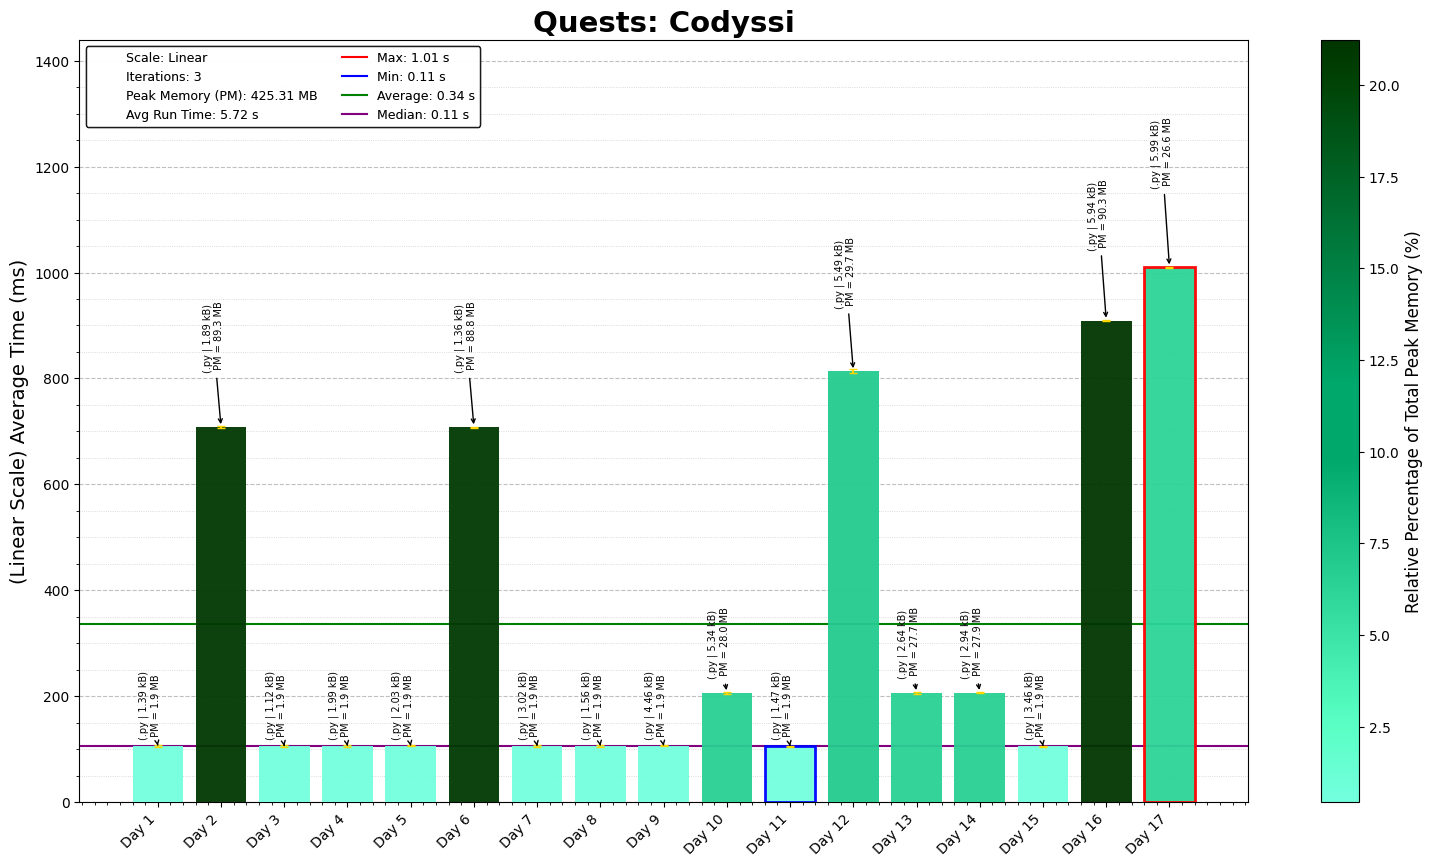
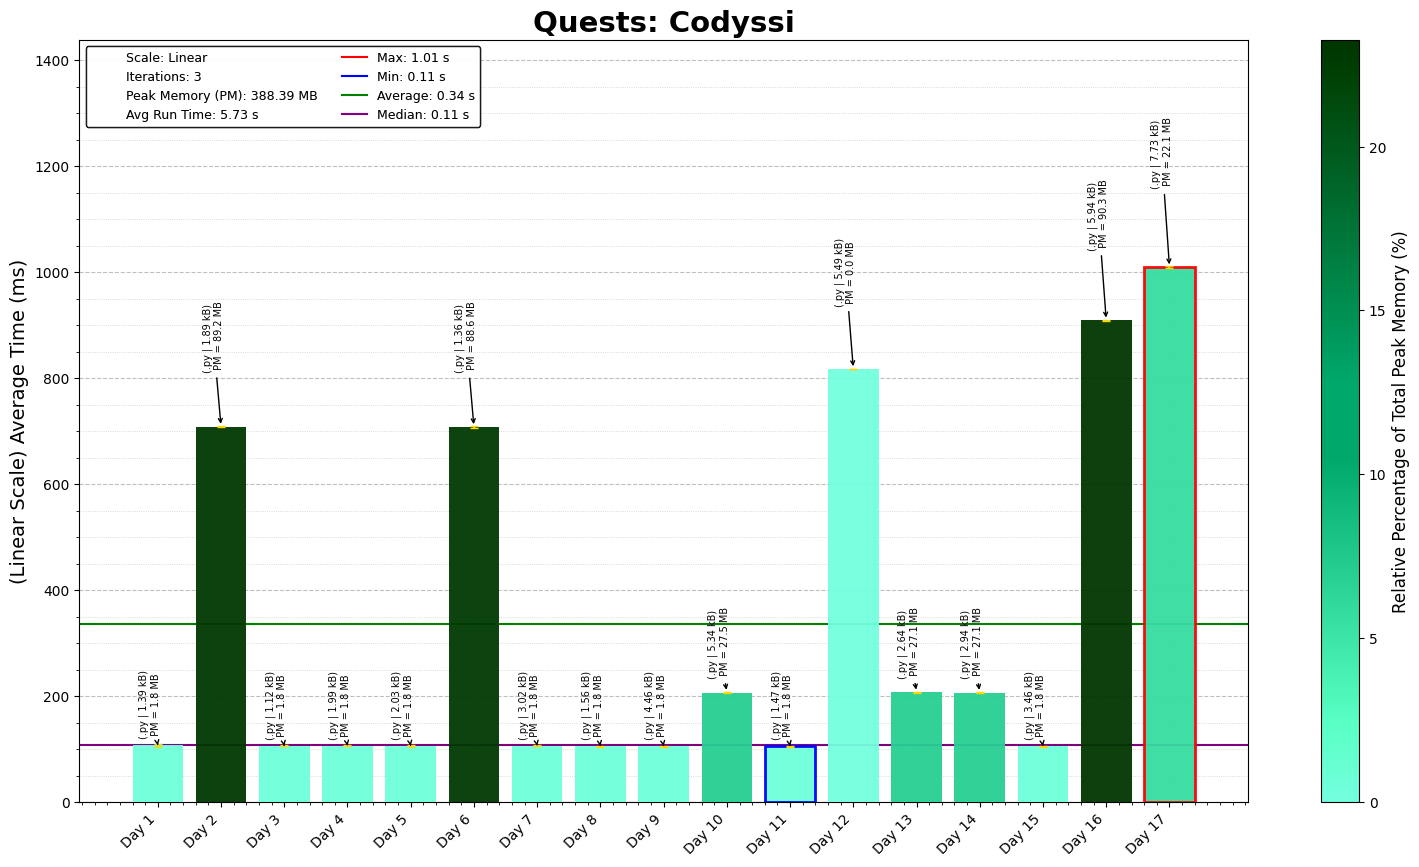
Codyssi Day 17 P3

diff --git a/Codyssi/2025/17/CodyssiDay17.py b/Codyssi/2025/17/CodyssiDay17.py
@@ -7,8 +7,9 @@ Brief: [Spiralling Stairs]
 
 #!/usr/bin/env python3
 
-import os, re, copy, time, functools
+import os, re, copy, time
 start_time = time.time()
+from functools import cache
 
 # Load the input data from the specified file path
 D17_file = "Day17_input.txt"
@@ -29,7 +30,7 @@ class Staircase:
         for branch in self.staircase_data.values():
             basic_structure = self.__build_staircase(basic_structure, branch)
 
-        self.basic_structure = copy.deepcopy(basic_structure)
+        self.basic_structure = basic_structure.copy()
         self.expanded_structure = self.__identify_shortcuts(basic_structure.copy())
 
     def __parse_step(self, raw_info):
@@ -75,7 +76,7 @@ class Staircase:
                 if next_move[1] in valid_moves:
                     complete_moves.setdefault(base_step, set()).add(next_move)
 
-        complete_moves =  copy.deepcopy(structure)
+        complete_moves =  structure.copy()
         valid_moves = self.valid_moves
 
         for base_step in structure:
@@ -86,6 +87,7 @@ class Staircase:
 
     def __dfs_algorithm(self, current, end_step, structure, history = {}, multi_level = True):
         if current == end_step: # If current is final step, count 1
+            history[current] = 1
             return 1
         if current in history: # If current is in history return to that point
             return history[current]
@@ -102,9 +104,9 @@ class Staircase:
 
         history[current] = total
         if multi_level:
-            self.history_multi = history.copy()
+            self.history_multi = history
         else:
-            self.history_basic = history.copy()
+            self.history_basic = history
         return total
 
     def __visualize_all_paths(self, current, end_step, structure, valid_paths = [], multi_level = True, visualize = True):
@@ -142,41 +144,37 @@ class Staircase:
 
         count = self.__dfs_algorithm(start_point, end_point, stair_structure, {}, multi_level)
         return count
-    def extract_numbers(self, s):
-        # Use regex to extract the numbers after 'S' and after '_'
-        match = re.match(r'S(\d+)_(\d+)', s)
-        return (int(match.group(1)), int(match.group(2)))
 
-    def __build_desired_path(self, start, end, target):
-        # print(f"{start} -> {end}: Rank {desired_rank}")
-        stair_structure = self.expanded_structure.copy()
-        # reachable_states = {}
-        # for step, connections in stair_structure.items():
-        #     corrected_states = set(step for step, _ in connections)
-        #     reachable_states[step] = corrected_states
-        dp = self.history_multi.copy()
-        dp[end] = 1
+    def __build_desired_path(self, start, end, desired_rank):
+
+        @cache
+        def extract_numbers(step):
+            match = re.compile(r'S(\d+)_(\d+)').match(step[0])
+            return int(match.group(1)), int(match.group(2))
+
+        stair_structure = self.expanded_structure
+        history = self.history_multi
 
         path = [start]
         while path[-1] != end:
             state = path[-1]
-            reachable_states = sorted(step for step, _ in stair_structure[state])
-            reachable_states_sorted = sorted(reachable_states,  key=self.extract_numbers)
-            print(state, reachable_states_sorted)
+            reachable_states = set(stair_structure[state])
+            reachable_states_sorted = sorted(reachable_states,  key=extract_numbers)
             path += [reachable_states_sorted]
-            for state_next in reachable_states_sorted:
+            for state_next, _ in reachable_states_sorted:
                 path[-1] = state_next
-                if target - dp[state_next] <= 0:
+                if desired_rank - history[state_next] <= 0:
                     break
-                target -= dp[state_next]
-        return path
+                desired_rank -= history[state_next]
+        return '-'.join(path)
 
-    def find_safest_path(self, target_step, total_paths, target_rank = 1E+29):
+    def find_safest_path(self, target_step, total_paths):
+        target_rank = 100000000000000000000000000000
         path_rank = min(target_rank, total_paths)
         start_point, end_point = self.identify_start_end(target_step)
         path_built = self.__build_desired_path(start_point, end_point, path_rank)
 
-        return '-'.join(path_built)
+        return path_built
 
 stairs = Staircase(steps, possible_moves)
 
@@ -189,91 +187,5 @@ print("Part 2:", multiple_stairs)
 ranked_path = stairs.find_safest_path("S1", multiple_stairs)
 print("Part 3:", ranked_path)
 
-from collections import defaultdict
-
-blocks = [block.splitlines() for block in open(D17_file_path, "r").read().split("\n\n")]
-
-# read staircases, build set of states and map of directed, single steps
-states = set()
-steps = defaultdict(list)
-start, end = (-1, -1), (-1, -1)
-for line in blocks[0]:
-    s = line.split()
-    id, level_start, level_end, sid_from, sid_to = int(s[0][1:]), int(s[2]), int(s[4]), s[7], s[9]
-    for level in range(level_start, level_end + 1):
-        states.add((id, level))
-        if level < level_end:
-            steps[(id, level)] += [(id, level + 1)]
-    if id == 1:
-        start, end = (id, level_start), (id, level_end)
-    else:
-        id_from, id_to = int(sid_from[1:]), int(sid_to[1:])
-        steps[(id_from, level_start)] += [(id, level_start)]
-        steps[(id, level_end)] += [(id_to, level_end)]
-
-# read moves
-moves = set(map(int, re.findall(r"[-+]?\d+", blocks[1][0])))
-max_move = max(moves)
-
-# build map of all states that are reachable from a state in a full move
-reachable_states = defaultdict(set)
-for state in states:
-    states_tmp = {state}
-    for k in range(1, max_move + 1):
-        states_tmp_new = set()
-        for s in states_tmp:
-            states_tmp_new.update(steps[s])
-        states_tmp = states_tmp_new
-        if k in moves:
-            reachable_states[state].update(states_tmp)
-
-# topological sort of states
-n_states = len(states)
-in_degree = defaultdict(int)
-for lst in steps.values():
-    for v in lst:
-        in_degree[v] += 1
-sorted_states = []
-stack = [s for s in states if in_degree[s] == 0]
-while stack:
-    v = stack.pop()
-    sorted_states += [v]
-    for u in steps[v]:
-        in_degree[u] -= 1
-        if in_degree[u] == 0:
-            stack += [u]
-assert len(sorted_states) == n_states
-
-dp = defaultdict(int)
-dp[start] = 1
-for i in range(0, end[1] + 1):
-    state = (1, i)
-    for reachable_state in reachable_states[state]:
-        if reachable_state[0] == 1:
-            dp[reachable_state] += dp[state]
-ans1 = dp[end]
-
-dp = defaultdict(int)
-dp[end] = 1
-for state in reversed(sorted_states):
-    for reachable_state in reachable_states[state]:
-        dp[state] += dp[reachable_state]
-ans2 = dp[start]
-
-
-target = 100000000000000000000000000000
-path = [start]
-while path[-1] != end:
-    state = path[-1]
-    reachable_states_sorted = sorted(reachable_states[state])
-    print(state, reachable_states_sorted)
-    path += [reachable_states_sorted[0]]
-    for state_next in reachable_states_sorted:
-        path[-1] = state_next
-        if target - dp[state_next] <= 0:
-            break
-        target -= dp[state_next]
-ans3 = "-".join(f"S{state[0]}_{state[1]}" for state in path)
-print(f"part 3: {ans3}")
 print(f"Execution Time = {time.time() - start_time:.5f}s")
 
